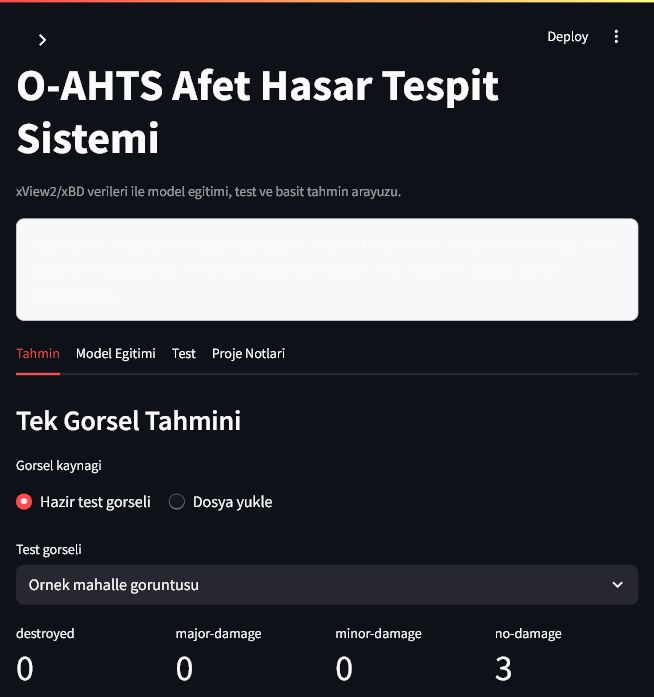
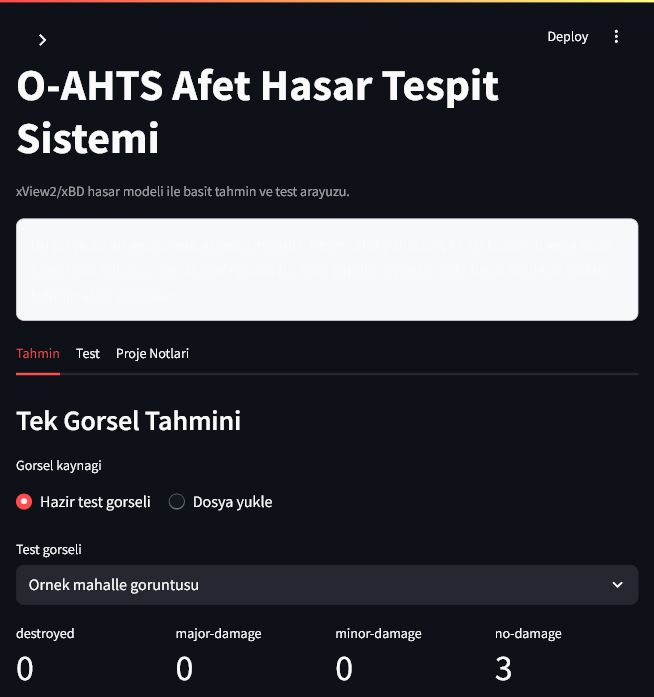
Simplify app around ready model usage

diff --git a/app.py b/app.py
@@ -246,13 +246,13 @@ st.markdown(
 )
 
 st.title("O-AHTS Afet Hasar Tespit Sistemi")
-st.caption("xView2/xBD verileri ile model egitimi, test ve basit tahmin arayuzu.")
+st.caption("xView2/xBD hasar modeli ile basit tahmin ve test arayuzu.")
 st.markdown(
     """
     <div class="status-box">
     Bu proje su an <b>gelistirme asamasindadir</b>. Resmi afet yonetimi, AFAD bildirimi
-    veya saha karari icin kullanilmaz. Amac ogrenci projesi olarak veri, model ve arayuz
-    akisini gostermektir.
+    veya saha karari icin kullanilmaz. Model egitimi bir kere yapilip, uygulamada hazir
+    modelin test ve tahmin akisi gosterilir.
     </div>
     """,
     unsafe_allow_html=True,
@@ -294,7 +294,7 @@ with st.sidebar:
             value=os.getenv("ROBOFLOW_WORKFLOW_ID", ""),
         )
 
-tabs = st.tabs(["Tahmin", "Model Egitimi", "Test", "Proje Notlari"])
+tabs = st.tabs(["Tahmin", "Test", "Proje Notlari"])
 
 with tabs[0]:
     st.subheader("Tek Gorsel Tahmini")
@@ -334,36 +334,6 @@ with tabs[0]:
         render_prediction_panel(image, predictions, source_label)
 
 with tabs[1]:
-    st.subheader("Model Egitimi Plani")
-    st.write(
-        "Bu bolum model egitim surecini takip etmek icin hazirlandi. Gercek egitim "
-        "Roboflow'dan indirilen YOLO formatli xView2/xBD verisi ile yapilir."
-    )
-
-    col_a, col_b, col_c = st.columns(3)
-    epochs = col_a.number_input("Epoch", min_value=1, max_value=300, value=30, step=5)
-    image_size = col_b.selectbox("Image size", [640, 768, 1024], index=0)
-    base_model = col_c.selectbox("Baslangic modeli", ["yolov8n.pt", "yolov8s.pt", "yolov8m.pt"], index=0)
-    dataset_yaml = st.text_input("Dataset YAML yolu", value="datasets/xview2-xbd/data.yaml")
-
-    train_command = (
-        f"python scripts/train_yolo.py --data {dataset_yaml} --model {base_model} "
-        f"--epochs {epochs} --imgsz {image_size}"
-    )
-    st.code(train_command, language="bash")
-
-    st.markdown(
-        """
-        Egitim adimlari:
-
-        1. Roboflow Universe uzerinden xView2/xBD verisini YOLO formatinda indir.
-        2. Indirilen klasoru `datasets/xview2-xbd/` altina koy.
-        3. Yukaridaki komutu terminalde calistir.
-        4. Egitilen agirlik dosyasini `runs/detect/train/weights/best.pt` olarak kullan.
-        """
-    )
-
-with tabs[2]:
     st.subheader("Test Verileri ile Kontrol")
     st.write("Bu sekme hazir test gorselleri uzerinden modelin tahminlerini hizlica kontrol eder.")
     test_sample = st.selectbox("Test icin gorsel sec", list(SAMPLE_IMAGES), key="test_sample")
@@ -393,16 +363,16 @@ with tabs[2]:
         language="bash",
     )
 
-with tabs[3]:
+with tabs[2]:
     st.subheader("Proje Kapsami")
     st.markdown(
         """
         Bu calisma SRS dokumanindaki buyuk O-AHTS fikrinin basitlestirilmis halidir.
 
-        - Su an sadece model egitimi, test ve tek gorsel tahmini hedefleniyor.
+        - Su an hazir model ile test ve tek gorsel tahmini hedefleniyor.
+        - Model egitimi uygulama icinde degil, ayri script ile bir kere yapilacak.
         - AFAD/Kandilli entegrasyonu yok.
         - Harita, GeoJSON, saha ekibi ve bildirim modulleri sonraki asamaya birakildi.
         - Roboflow hosted model ile hizli test yapilabiliyor.
-        - Yerel egitim icin YOLO tabanli scriptler eklendi.
         """
     )

diff --git a/README.md b/README.md
@@ -1,6 +1,6 @@
 # O-AHTS - Basit Afet Hasar Tespit Projesi
 
-Bu proje, xView2/xBD afet hasar verileri ile model egitimi, test ve tahmin akisini gostermek icin hazirlanan basit bir ogrenci projesidir.
+Bu proje, xView2/xBD afet hasar verileriyle hazirlanan modeli kullanip test etmek icin yapilan basit bir ogrenci projesidir.
 
 > Durum: Proje gelistirme asamasindadir. Resmi afet yonetimi, AFAD bildirimi veya saha karari icin kullanilmaz.
 
@@ -10,10 +10,6 @@ Bu proje, xView2/xBD afet hasar verileri ile model egitimi, test ve tahmin akisi
 
 ![Tahmin ekrani](docs/images/01-prediction.png)
 
-### Model Egitimi Ekrani
-
-![Model egitimi ekrani](docs/images/02-training.png)
-
 ### Test Ekrani
 
 ![Test ekrani](docs/images/03-test.png)
@@ -22,11 +18,11 @@ Bu proje, xView2/xBD afet hasar verileri ile model egitimi, test ve tahmin akisi
 
 SRS dokumaninda anlatilan Otonom Afet Hasar Tespit Sistemi fikri burada cok daha basit bir seviyeye indirildi.
 
-Bu repoda hedeflenen akış:
+Bu repoda hedeflenen akis:
 
-1. xView2/xBD verileriyle model egitmek.
-2. Egitilen modeli test gorselleriyle denemek.
-3. Model sonucunu basit bir Streamlit arayuzunde gostermek.
+1. xView2/xBD verileriyle model bir kere egitilir.
+2. Egitilen veya Roboflow uzerinde hazir duran model uygulamaya baglanir.
+3. Hazir test gorselleri veya yuklenen gorseller ile model sonucu gosterilir.
 
 ## SRS Dokumani
 
@@ -41,8 +37,8 @@ Projenin genel fikri ve daha buyuk kapsamli hedefleri icin SRS dokumani:
 - Hazir test gorselleri.
 - Tek gorsel uzerinde hasar tahmini.
 - Sinif bazli sayaclar.
-- YOLO egitimi icin basit script.
 - Roboflow model testi icin basit script.
+- Bir kere kullanilacak YOLO egitim scripti.
 
 ## Siniflar
 
@@ -61,12 +57,6 @@ python -m venv .venv
 pip install -r requirements.txt
 ```
 
-Egitim yapmak istenirse ek paketler:
-
-```bash
-pip install -r requirements-train.txt
-```
-
 ## Calistirma
 
 ```bash
@@ -75,9 +65,9 @@ streamlit run app.py
 
 Uygulama acildiktan sonra:
 
-1. **Tahmin** sekmesinden hazir test gorseli secilebilir.
-2. **Model Egitimi** sekmesinden egitim komutu hazirlanabilir.
-3. **Test** sekmesinden model test edilebilir.
+1. **Tahmin** sekmesinden hazir test gorseli secilebilir veya dosya yuklenebilir.
+2. **Test** sekmesinden hazir test gorselleri ile model kontrol edilebilir.
+3. **Proje Notlari** sekmesinden projenin kapsami gorulebilir.
 
 ## Roboflow Ayari
 
@@ -98,6 +88,8 @@ https://universe.roboflow.com/flow-wnra9/xview2-xbd
 
 ## Model Egitimi
 
+Model egitimi uygulamanin ana ekrani degildir. Bu islem sadece bir kere yapilip elde edilen model daha sonra uygulamada kullanilir.
+
 Roboflow'dan YOLO formatinda veri indirildikten sonra klasor yapisi ornek olarak soyle olabilir:
 
 ```text
@@ -107,6 +99,12 @@ datasets/
     train/
     valid/
     test/
+```
+
+Gerekirse egitim paketleri kurulur:
+
+```bash
+pip install -r requirements-train.txt
 ```
 
 Egitim komutu:
@@ -146,4 +144,4 @@ Bu ozellikler projenin sonraki gelistirme asamalarinda dusunulebilir.
 
 ## Not
 
-Bu repo bilerek sade tutuldu. Amac once veri, egitim, test ve tahmin akisini calisir hale getirmek; daha sonra harita ve operasyonel modulleri eklemektir.
+Bu repo bilerek sade tutuldu. Amac hazir/egitilmis modeli kullanarak test ve tahmin akisini gostermektir.